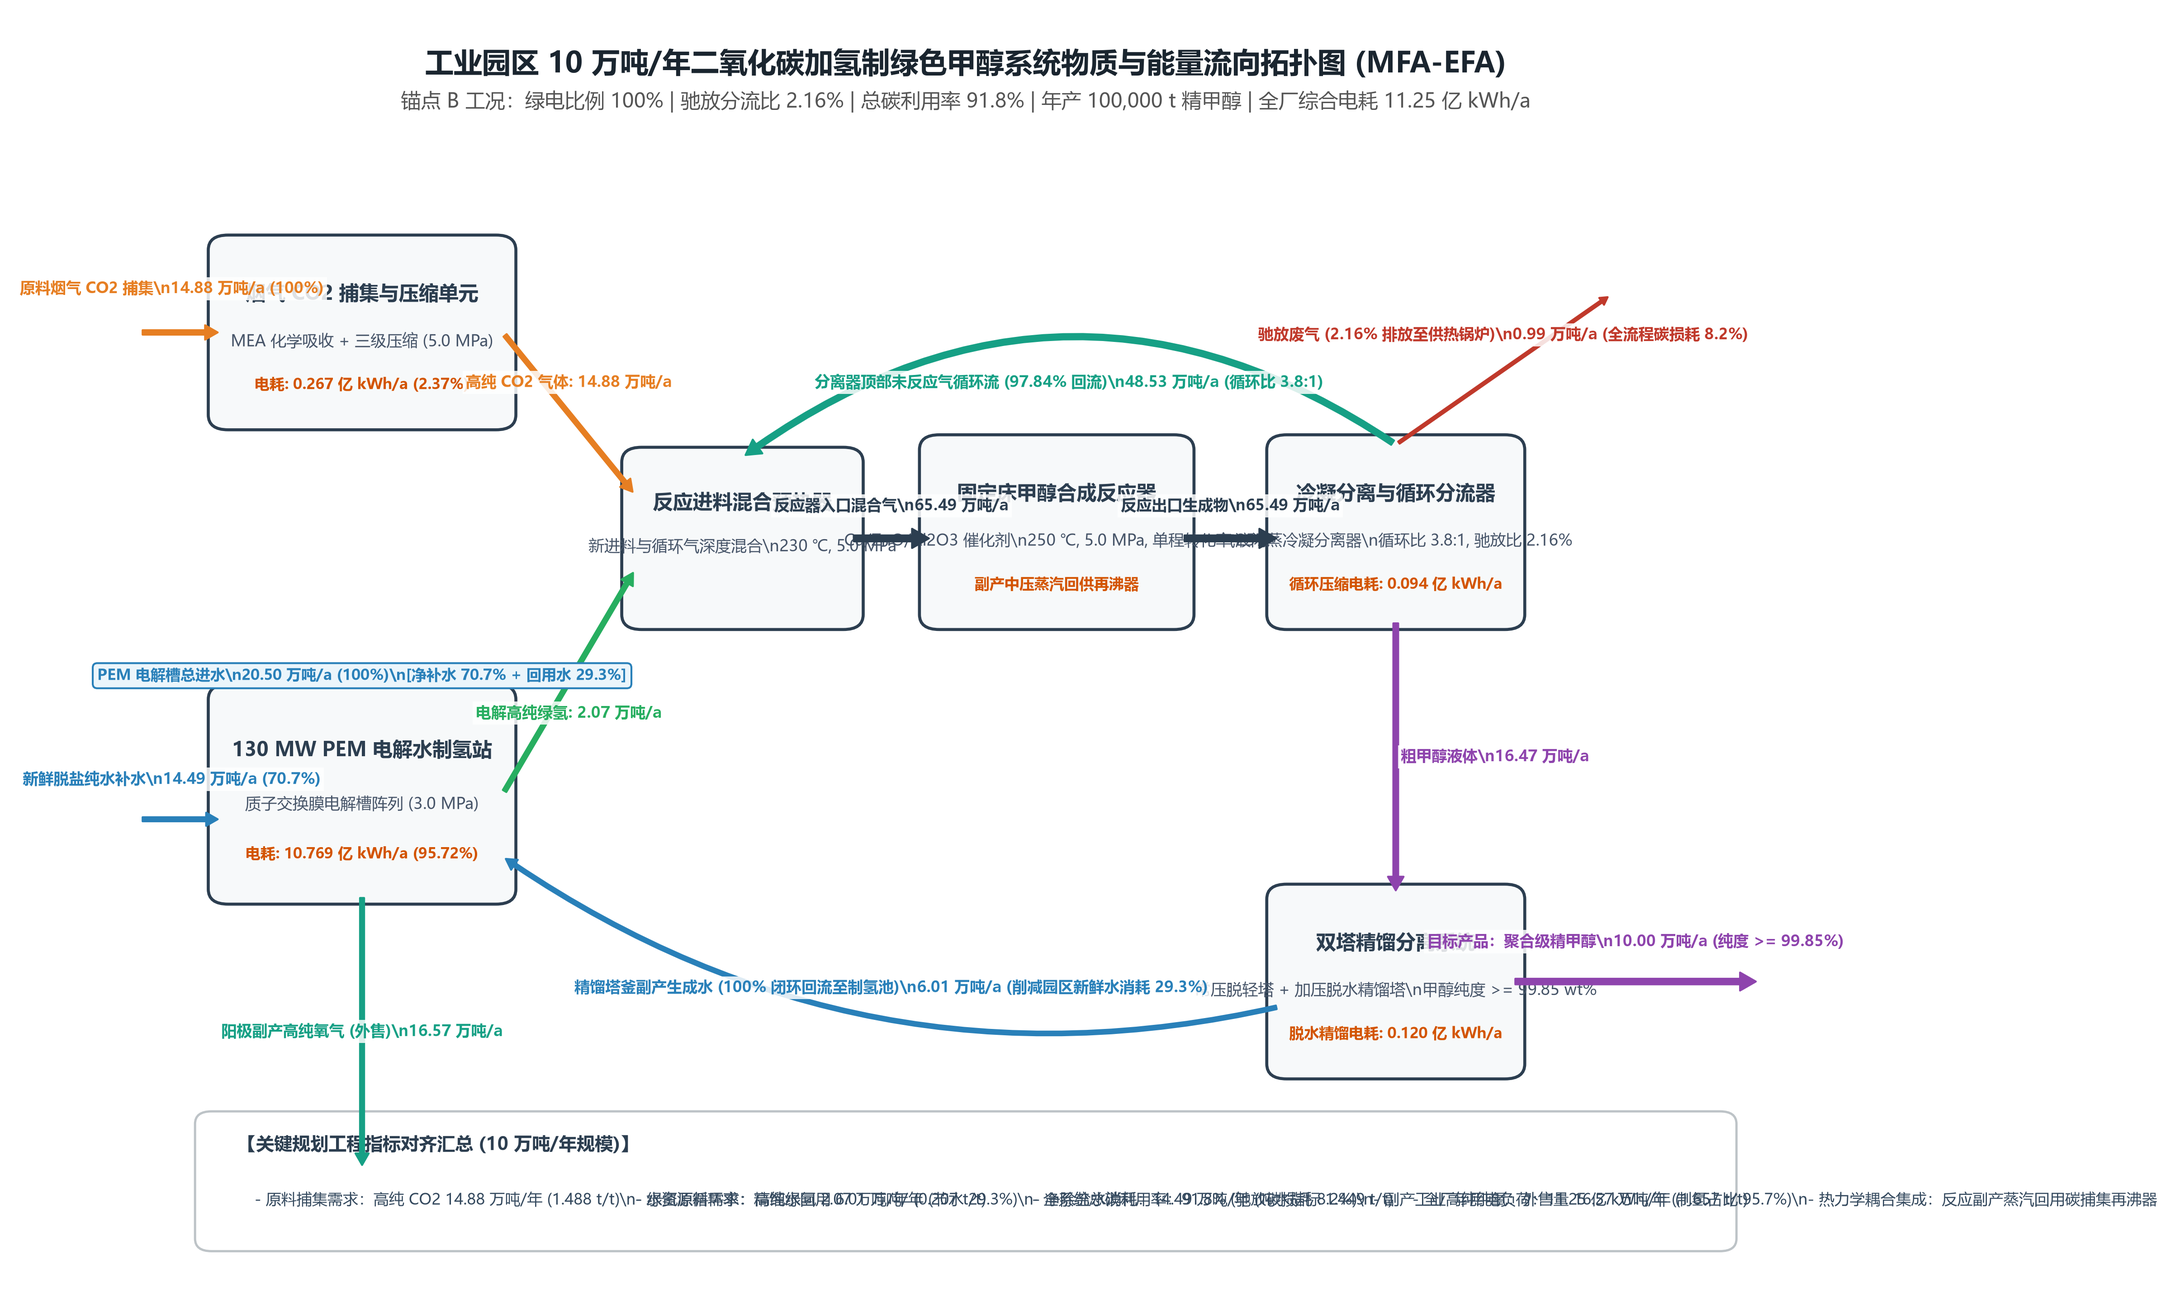
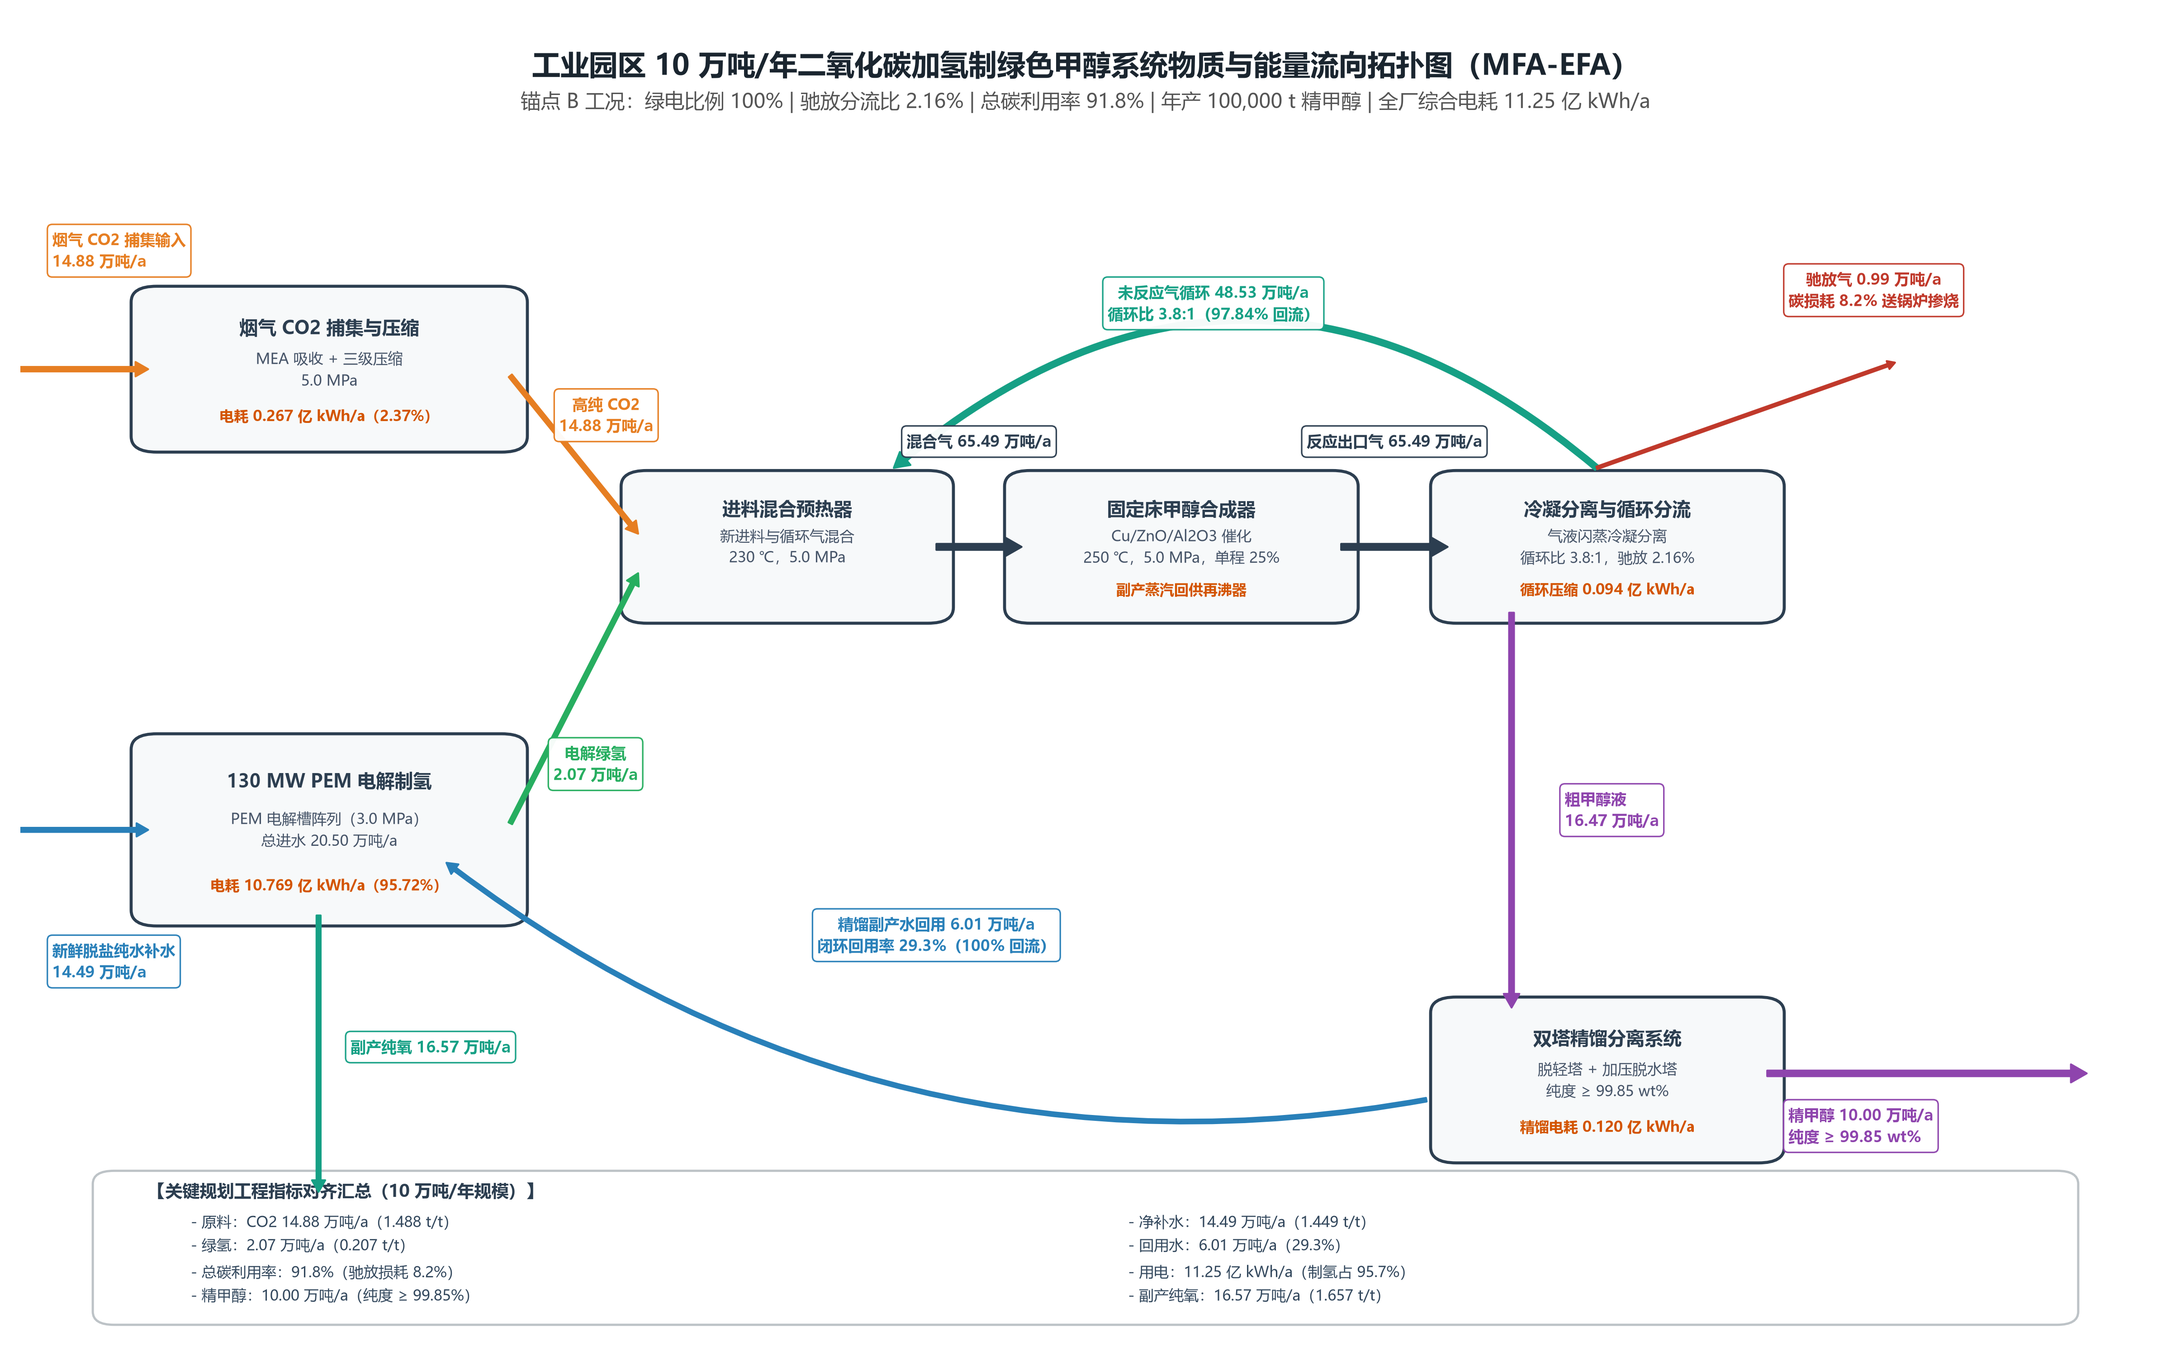
style(group-04): refine lecture10 MFA-EFA flow layout to eliminate label overlaps

diff --git a/groups/group-04/lecture10-20261027-classroom_case2-EPM/code_implementation/task4_process_sankey_flow.py b/groups/group-04/lecture10-20261027-classroom_case2-EPM/code_implementation/task4_process_sankey_flow.py
@@ -13,6 +13,8 @@
     3. 精馏冷凝生成水闭环循环至制氢进水池 (6.01 万吨/年)；
     4. 各工段综合电耗分布 (亿 kWh/年)；
     5. 出版级 300 DPI 矢量渲染输出。
+  排版原则：所有通量标签均置于流线侧向空白区，并以白底细边框承托，
+            避免标签之间、标签与箭头、标签与工艺单元框发生重叠。
 """
 
 import sys
@@ -65,14 +67,14 @@ def get_figures_output_dir():
 def draw_mfa_process_flow(output_filename="fig1_mfa_process_flow.png"):
     """
     绘制园区级 10 万吨/年绿色甲醇工程物质与能量流动拓扑图。
-    
+
     参数：
         output_filename (str): 图表输出文件名
     """
     out_dir = get_figures_output_dir()
     output_path = os.path.join(out_dir, output_filename)
 
-    fig, ax = plt.subplots(figsize=(16, 9.5), dpi=300)
+    fig, ax = plt.subplots(figsize=(16, 10), dpi=300)
     ax.set_xlim(0, 100)
     ax.set_ylim(0, 100)
     ax.axis("off")
@@ -82,132 +84,151 @@ def draw_mfa_process_flow(output_filename="fig1_mfa_process_flow.png"):
     # --------------------------------------------------------------------------
     c_bg_box     = "#f7f9fa"
     c_edge_box   = "#2c3e50"
-    c_co2        = "#e67e22" # 橙褐色代表碳源
-    c_h2         = "#27ae60" # 绿色代表绿氢
-    c_water      = "#2980b9" # 蓝色代表水系统
-    c_meoh       = "#8e44ad" # 紫色代表高纯甲醇
-    c_gas_loop   = "#16a085" # 青绿代表未反应循环气
-    c_energy     = "#d35400" # 能量消耗标签
+    c_co2        = "#e67e22"  # 橙褐色代表碳源
+    c_h2         = "#27ae60"  # 绿色代表绿氢
+    c_water      = "#2980b9"  # 蓝色代表水系统
+    c_meoh       = "#8e44ad"  # 紫色代表高纯甲醇
+    c_gas_loop   = "#16a085"  # 青绿代表未反应循环气
+    c_energy     = "#d35400"  # 能量消耗标签
+    c_purge      = "#c0392b"  # 驰放废气
 
     # 标题与元数据说明
-    ax.text(50, 96.5, "工业园区 10 万吨/年二氧化碳加氢制绿色甲醇系统物质与能量流向拓扑图 (MFA-EFA)",
+    ax.text(50, 96.5, "工业园区 10 万吨/年二氧化碳加氢制绿色甲醇系统物质与能量流向拓扑图（MFA-EFA）",
             fontsize=15, fontweight="bold", ha="center", va="center", color="#1a252f")
-    ax.text(50, 93.5, "锚点 B 工况：绿电比例 100% | 驰放分流比 2.16% | 总碳利用率 91.8% | 年产 100,000 t 精甲醇 | 全厂综合电耗 11.25 亿 kWh/a",
+    ax.text(50, 93.8, "锚点 B 工况：绿电比例 100% | 驰放分流比 2.16% | 总碳利用率 91.8% | 年产 100,000 t 精甲醇 | 全厂综合电耗 11.25 亿 kWh/a",
             fontsize=10.5, ha="center", va="center", color="#555555")
 
     # --------------------------------------------------------------------------
     # 辅助绘图函数
     # --------------------------------------------------------------------------
     def draw_unit(x, y, w, h, title, subtitle="", elec_str="", bg_color=c_bg_box, border_color=c_edge_box):
+        """绘制工艺单元框；标题、说明与电耗分三层排布，互不侵占"""
         rect = patches.FancyBboxPatch((x, y), w, h, boxstyle="round,pad=0.8,rounding_size=1.2",
                                       facecolor=bg_color, edgecolor=border_color, linewidth=1.6, zorder=2)
         ax.add_patch(rect)
-        ax.text(x + w / 2, y + h * 0.72, title, fontsize=10.5, fontweight="bold", ha="center", va="center", color="#2c3e50", zorder=3)
+        ax.text(x + w / 2, y + h * 0.78, title, fontsize=9.8, fontweight="bold",
+                ha="center", va="center", color="#2c3e50", zorder=3)
         if subtitle:
-            ax.text(x + w / 2, y + h * 0.45, subtitle, fontsize=8.5, ha="center", va="center", color="#475569", zorder=3)
+            ax.text(x + w / 2, y + h * 0.50, subtitle, fontsize=8.0, ha="center", va="center",
+                    color="#475569", zorder=3, linespacing=1.35)
         if elec_str:
-            ax.text(x + w / 2, y + h * 0.20, elec_str, fontsize=8.0, fontweight="bold", ha="center", va="center", color=c_energy, zorder=3)
+            ax.text(x + w / 2, y + h * 0.17, elec_str, fontsize=7.8, fontweight="bold",
+                    ha="center", va="center", color=c_energy, zorder=3)
 
-    def draw_stream_arrow(x_start, y_start, x_end, y_end, label="", color="#333333", width=2.0, rad=0.0, label_pos=0.5, label_offset=(0, 2.0)):
+    def draw_stream_arrow(x_start, y_start, x_end, y_end, color="#333333", width=2.0, rad=0.0):
+        """仅绘制流线箭头；通量文字统一由 flow_label 在侧向空白区标注"""
         style = f"Simple,tail_width={width},head_width={width*3.2},head_length={width*2.8}"
-        kw = dict(arrowstyle=style, color=color, zorder=4)
+        kw = dict(arrowstyle=style, color=color, zorder=4, shrinkA=0, shrinkB=0)
         if rad != 0.0:
             arrow = patches.FancyArrowPatch((x_start, y_start), (x_end, y_end),
-                                          connectionstyle=f"arc3,rad={rad}", **kw)
+                                            connectionstyle=f"arc3,rad={rad}", **kw)
         else:
             arrow = patches.FancyArrowPatch((x_start, y_start), (x_end, y_end), **kw)
         ax.add_patch(arrow)
 
-        if label:
-            lx = x_start + (x_end - x_start) * label_pos + label_offset[0]
-            ly = y_start + (y_end - y_start) * label_pos + label_offset[1]
-            ax.text(lx, ly, label, fontsize=8.2, fontweight="bold", ha="center", va="center",
-                    bbox=dict(boxstyle="square,pad=0.2", facecolor="white", edgecolor="none", alpha=0.85),
-                    color=color, zorder=5)
+    def flow_label(x, y, text, color="#333333", ha="center", va="center", fontsize=8.2):
+        """流线通量标签：白底 + 与流线同色细边框，确保文字不与流线混叠"""
+        ax.text(x, y, text, fontsize=fontsize, fontweight="bold", ha=ha, va=va, color=color,
+                linespacing=1.30, zorder=6,
+                bbox=dict(boxstyle="round,pad=0.32", facecolor="white",
+                          edgecolor=color, linewidth=0.8, alpha=0.96))
 
     # --------------------------------------------------------------------------
-    # 核心单元位置布局 (学生可根据工艺布局微调坐标)
+    # 核心单元位置布局（横向五段式，预留标签走廊）
     # --------------------------------------------------------------------------
-    # 1. 碳捕集与压缩单元
-    draw_unit(5, 68, 17, 14, "烟气 CO2 捕集与压缩单元", "MEA 化学吸收 + 三级压缩 (5.0 MPa)", "电耗: 0.267 亿 kWh/a (2.37%)")
+    draw_unit(6, 68, 17, 11, "烟气 CO2 捕集与压缩",
+              "MEA 吸收 + 三级压缩\n5.0 MPa",
+              "电耗 0.267 亿 kWh/a（2.37%）")
 
-    # 2. 绿电电解水制氢站
-    draw_unit(5, 30, 17, 16, "130 MW PEM 电解水制氢站", "质子交换膜电解槽阵列 (3.0 MPa)", "电耗: 10.769 亿 kWh/a (95.72%)")
+    draw_unit(6, 32, 17, 13, "130 MW PEM 电解制氢",
+              "PEM 电解槽阵列（3.0 MPa）\n总进水 20.50 万吨/a",
+              "电耗 10.769 亿 kWh/a（95.72%）")
 
-    # 3. 反应物料混合与预热器
-    draw_unit(30, 52, 13, 13, "反应进料混合预热器", "新进料与循环气深度混合\\n230 ℃, 5.0 MPa", "")
+    draw_unit(29, 55, 14, 10, "进料混合预热器",
+              "新进料与循环气混合\n230 ℃，5.0 MPa")
 
-    # 4. 甲醇催化合成反应器
-    draw_unit(48, 52, 15, 14, "固定床甲醇合成反应器", "Cu/ZnO/Al2O3 催化剂\\n250 ℃, 5.0 MPa, 单程转化率 25%", "副产中压蒸汽回供再沸器")
+    draw_unit(47, 55, 15, 10, "固定床甲醇合成器",
+              "Cu/ZnO/Al2O3 催化\n250 ℃，5.0 MPa，单程 25%",
+              "副产蒸汽回供再沸器")
 
-    # 5. 高压气液分离器与循环气分流器
-    draw_unit(69, 52, 14, 14, "冷凝分离与循环分流器", "气液闪蒸冷凝分离器\\n循环比 3.8:1, 驰放比 2.16%", "循环压缩电耗: 0.094 亿 kWh/a")
+    draw_unit(67, 55, 15, 10, "冷凝分离与循环分流",
+              "气液闪蒸冷凝分离\n循环比 3.8:1，驰放 2.16%",
+              "循环压缩 0.094 亿 kWh/a")
 
-    # 6. 双塔精馏提纯系统
-    draw_unit(69, 16, 14, 14, "双塔精馏分离系统", "常压脱轻塔 + 加压脱水精馏塔\\n甲醇纯度 >= 99.85 wt%", "脱水精馏电耗: 0.120 亿 kWh/a")
+    draw_unit(67, 14, 15, 11, "双塔精馏分离系统",
+              "脱轻塔 + 加压脱水塔\n纯度 ≥ 99.85 wt%",
+              "精馏电耗 0.120 亿 kWh/a")
 
     # --------------------------------------------------------------------------
-    # 物质流连线与通量标注 (基于 10 万吨/年甲醇基准通量)
+    # 物质流连线与通量标注（基于锚点 B 的 10 万吨/年工程通量）
     # --------------------------------------------------------------------------
-    # 输入流 1：电厂烟气 CO2 原料
-    draw_stream_arrow(0, 75, 5, 75, "原料烟气 CO2 捕集\\n14.88 万吨/a (100%)", c_co2, width=2.4, label_offset=(-0.5, 3.5))
+    # 输入流 1：电厂烟气 CO2
+    draw_stream_arrow(0, 73.5, 6, 73.5, c_co2, width=2.4)
+    flow_label(1.5, 82.5, "烟气 CO2 捕集输入\n14.88 万吨/a", c_co2, ha="left")
 
-    # 输入流 2：园区新鲜除盐纯水外购
-    draw_stream_arrow(0, 36, 5, 36, "新鲜脱盐纯水补水\\n14.49 万吨/a (70.7%)", c_water, width=2.2, label_offset=(-0.5, 3.2))
+    # 输入流 2：园区新鲜除盐纯水
+    draw_stream_arrow(0, 38.5, 6, 38.5, c_water, width=2.2)
+    flow_label(1.5, 28.5, "新鲜脱盐纯水补水\n14.49 万吨/a", c_water, ha="left")
 
-    # 捕集 CO2 输送至混合器
-    draw_stream_arrow(22, 75, 30, 62, "高纯 CO2 气体: 14.88 万吨/a", c_co2, width=2.2, label_offset=(0, 2.5))
+    # 捕集 CO2 输送至混合预热器
+    draw_stream_arrow(23, 73, 29, 61, c_co2, width=2.2)
+    flow_label(27.5, 70, "高纯 CO2\n14.88 万吨/a", c_co2)
 
-    # 绿氢输送至混合器
-    draw_stream_arrow(22, 38, 30, 56, "电解高纯绿氢: 2.07 万吨/a", c_h2, width=2.2, label_offset=(0, -2.5))
+    # 绿氢输送至混合预热器
+    draw_stream_arrow(23, 39, 29, 58, c_h2, width=2.2)
+    flow_label(27, 43.5, "电解绿氢\n2.07 万吨/a", c_h2)
 
     # 电解制氢副产纯氧外售
-    draw_stream_arrow(13.5, 30, 13.5, 8, "阳极副产高纯氧气 (外售)\\n16.57 万吨/a", "#16a085", width=2.2, label_offset=(0, 0))
+    draw_stream_arrow(14, 32, 14, 11, "#16a085", width=2.2)
+    flow_label(15.5, 22, "副产纯氧 16.57 万吨/a", "#16a085", ha="left")
 
-    # 混合器到反应器
-    draw_stream_arrow(43, 58.5, 48, 58.5, "反应器入口混合气\\n65.49 万吨/a", "#2c3e50", width=3.2, label_offset=(0, 2.6))
+    # 混合预热器至合成反应器
+    draw_stream_arrow(43, 60, 47, 60, "#2c3e50", width=3.2)
+    flow_label(45, 68, "混合气 65.49 万吨/a", "#2c3e50")
 
-    # 反应器到分离器
-    draw_stream_arrow(63, 58.5, 69, 58.5, "反应出口生成物\\n65.49 万吨/a", "#2c3e50", width=3.2, label_offset=(0, 2.6))
+    # 合成反应器至冷凝分离器
+    draw_stream_arrow(62, 60, 67, 60, "#2c3e50", width=3.2)
+    flow_label(64.5, 68, "反应出口气 65.49 万吨/a", "#2c3e50")
 
-    # 分离器顶部循环气回路 (闭环内循环)
-    draw_stream_arrow(76, 66, 36.5, 65, "分离器顶部未反应气循环流 (97.84% 回流)\\n48.53 万吨/a (循环比 3.8:1)", c_gas_loop, width=2.8, rad=0.35, label_offset=(0, 5.5))
+    # 分离器顶部未反应气闭环内循环流
+    draw_stream_arrow(74, 66, 41, 66, c_gas_loop, width=2.8, rad=0.42)
+    flow_label(56, 78.5, "未反应气循环 48.53 万吨/a\n循环比 3.8:1（97.84% 回流）", c_gas_loop)
 
     # 分离器顶部驰放废气
-    draw_stream_arrow(76, 66, 89, 78, "驰放废气 (2.16% 排放至供热锅炉)\\n0.99 万吨/a (全流程碳损耗 8.2%)", "#c0392b", width=1.4, label_offset=(0, 2.8))
+    draw_stream_arrow(74, 66, 88, 74, c_purge, width=1.4)
+    flow_label(87, 79.5, "驰放气 0.99 万吨/a\n碳损耗 8.2% 送锅炉掺烧", c_purge)
 
-    # 分离器底部粗甲醇液相到精馏塔
-    draw_stream_arrow(76, 52, 76, 30, "粗甲醇液体\\n16.47 万吨/a", c_meoh, width=2.6, label_offset=(6.0, 0))
+    # 分离器底部粗甲醇液相去精馏
+    draw_stream_arrow(70, 55, 70, 25, c_meoh, width=2.6)
+    flow_label(72.5, 40, "粗甲醇液\n16.47 万吨/a", c_meoh, ha="left")
 
-    # 精馏塔产品输出：聚合级精甲醇
-    draw_stream_arrow(83, 23, 98, 23, "目标产品：聚合级精甲醇\\n10.00 万吨/a (纯度 >= 99.85%)", c_meoh, width=3.0, label_offset=(0, 3.2))
+    # 精馏产品输出
+    draw_stream_arrow(82, 20, 97, 20, c_meoh, width=3.0)
+    flow_label(83, 16, "精甲醇 10.00 万吨/a\n纯度 ≥ 99.85 wt%", c_meoh, ha="left")
 
-    # 精馏塔副产水闭环循环至制氢站 (闭环水循环)
-    draw_stream_arrow(69, 21, 22, 33, "精馏塔釜副产生成水 (100% 闭环回流至制氢池)\\n6.01 万吨/a (削减园区新鲜水消耗 29.3%)", c_water, width=2.0, rad=-0.22, label_offset=(0, -4.5))
-
-    # 电解槽总进水汇总标记
-    ax.text(13.5, 47.5, "PEM 电解槽总进水\\n20.50 万吨/a (100%)\\n[净补水 70.7% + 回用水 29.3%]",
-            fontsize=8.0, fontweight="bold", ha="center", va="center",
-            bbox=dict(boxstyle="round,pad=0.3", facecolor="#ebf5fb", edgecolor="#2980b9", linewidth=1.0),
-            color="#2980b9", zorder=6)
+    # 精馏副产水闭环回用至制氢进水池
+    draw_stream_arrow(66, 18, 20, 36, c_water, width=2.0, rad=-0.22)
+    flow_label(43, 30.5, "精馏副产水回用 6.01 万吨/a\n闭环回用率 29.3%（100% 回流）", c_water)
 
     # --------------------------------------------------------------------------
-    # 底部图例与工程核心指标看板
+    # 底部图例与工程核心指标看板（2 × 2 网格，避免四列文字相互挤压）
     # --------------------------------------------------------------------------
-    board_rect = patches.FancyBboxPatch((4, 2), 92, 10, boxstyle="round,pad=0.6,rounding_size=1.0",
+    board_rect = patches.FancyBboxPatch((4, 1.5), 92, 10.5, boxstyle="round,pad=0.6,rounding_size=1.0",
                                         facecolor="#ffffff", edgecolor="#bdc3c7", linewidth=1.2, zorder=2)
     ax.add_patch(board_rect)
 
-    ax.text(6, 9.5, "【关键规划工程指标对齐汇总 (10 万吨/年规模)】", fontsize=9.5, fontweight="bold", color="#2c3e50")
-    col1 = "- 原料捕集需求：高纯 CO2 14.88 万吨/年 (1.488 t/t)\\n- 绿氢原料需求：高纯绿氢 2.07 万吨/年 (0.207 t/t)"
-    col2 = "- 水资源循环率：精馏水回用 6.01 万吨/年 (节水 29.3%)\\n- 净除盐水消耗：14.49 万吨/年 (吨水指标 1.449 t/t)"
-    col3 = "- 全系统总碳利用率：91.8% (驰放碳损耗 8.2%)\\n- 副产工业高纯纯氧：外售量 16.57 万吨/年 (1.657 t/t)"
-    col4 = "- 全厂年用电负荷：11.25 亿 kWh/年 (制氢占比 95.7%)\\n- 热力学耦合集成：反应副产蒸汽回用碳捕集再沸器"
+    ax.text(6, 11, "【关键规划工程指标对齐汇总（10 万吨/年规模）】",
+            fontsize=9.2, fontweight="bold", color="#2c3e50", va="center")
 
-    ax.text(7, 5.5, col1, fontsize=8.2, va="center", color="#34495e")
-    ax.text(30, 5.5, col2, fontsize=8.2, va="center", color="#34495e")
-    ax.text(54, 5.5, col3, fontsize=8.2, va="center", color="#34495e")
-    ax.text(77, 5.5, col4, fontsize=8.2, va="center", color="#34495e")
+    col1 = "- 原料：CO2 14.88 万吨/a（1.488 t/t）\n- 绿氢：2.07 万吨/a（0.207 t/t）"
+    col2 = "- 净补水：14.49 万吨/a（1.449 t/t）\n- 回用水：6.01 万吨/a（29.3%）"
+    col3 = "- 总碳利用率：91.8%（驰放损耗 8.2%）\n- 精甲醇：10.00 万吨/a（纯度 ≥ 99.85%）"
+    col4 = "- 用电：11.25 亿 kWh/a（制氢占 95.7%）\n- 副产纯氧：16.57 万吨/a（1.657 t/t）"
+
+    ax.text(8, 7.8, col1, fontsize=8.0, va="center", color="#34495e", linespacing=1.45)
+    ax.text(52, 7.8, col2, fontsize=8.0, va="center", color="#34495e", linespacing=1.45)
+    ax.text(8, 4.0, col3, fontsize=8.0, va="center", color="#34495e", linespacing=1.45)
+    ax.text(52, 4.0, col4, fontsize=8.0, va="center", color="#34495e", linespacing=1.45)
 
     plt.tight_layout()
 
